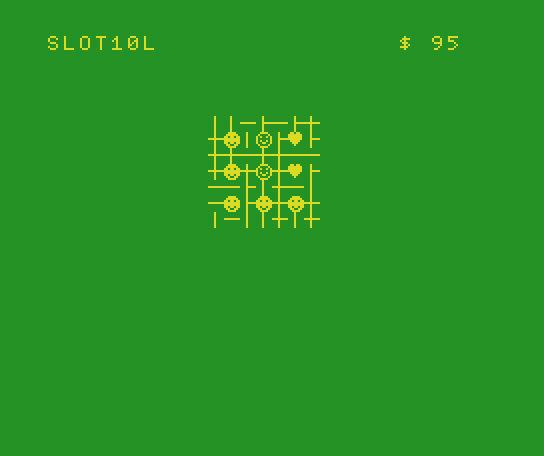
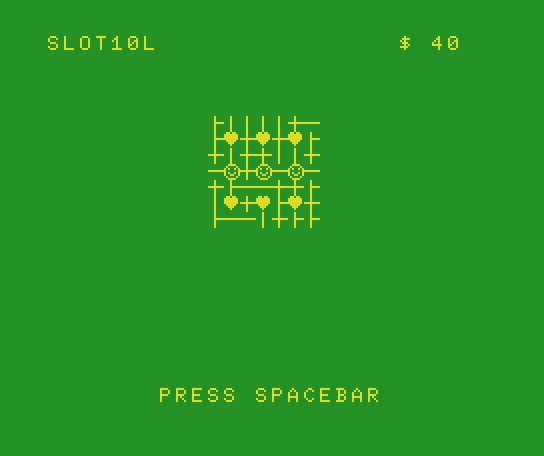
slot

diff --git a/README.md b/README.md
@@ -52,7 +52,7 @@ Print game title. Render some random graphics.
 Render wheels symbols on screen.
 
 ```
-4 R(J,I)=A:nextI,J:LOCATE22,0
+4 R(J,I)=A:nextI,J:LOCATE7,22:?"PRESS SPACEBAR":LOCATE22,0
 ```
 R array contains actual screen symbol, in order to reduce code after.
 
@@ -76,7 +76,7 @@ In case of victory money value (M) is increased a sound is played.
 ```
 Updated money value is rendered
 ```
-9 K$=INKEY$:IFK$=""then9:elseM=M-1:forJ=0to2:SR(J)=RND(1)*15:nextJ:goto5
+9 K$=INKEY$:IFK$<>" "then9:elseM=M-1:forJ=0to2:SR(J)=RND(1)*15:nextJ:goto5
 
 ```
 Read the user input. A random value for each wheel step is generated.
